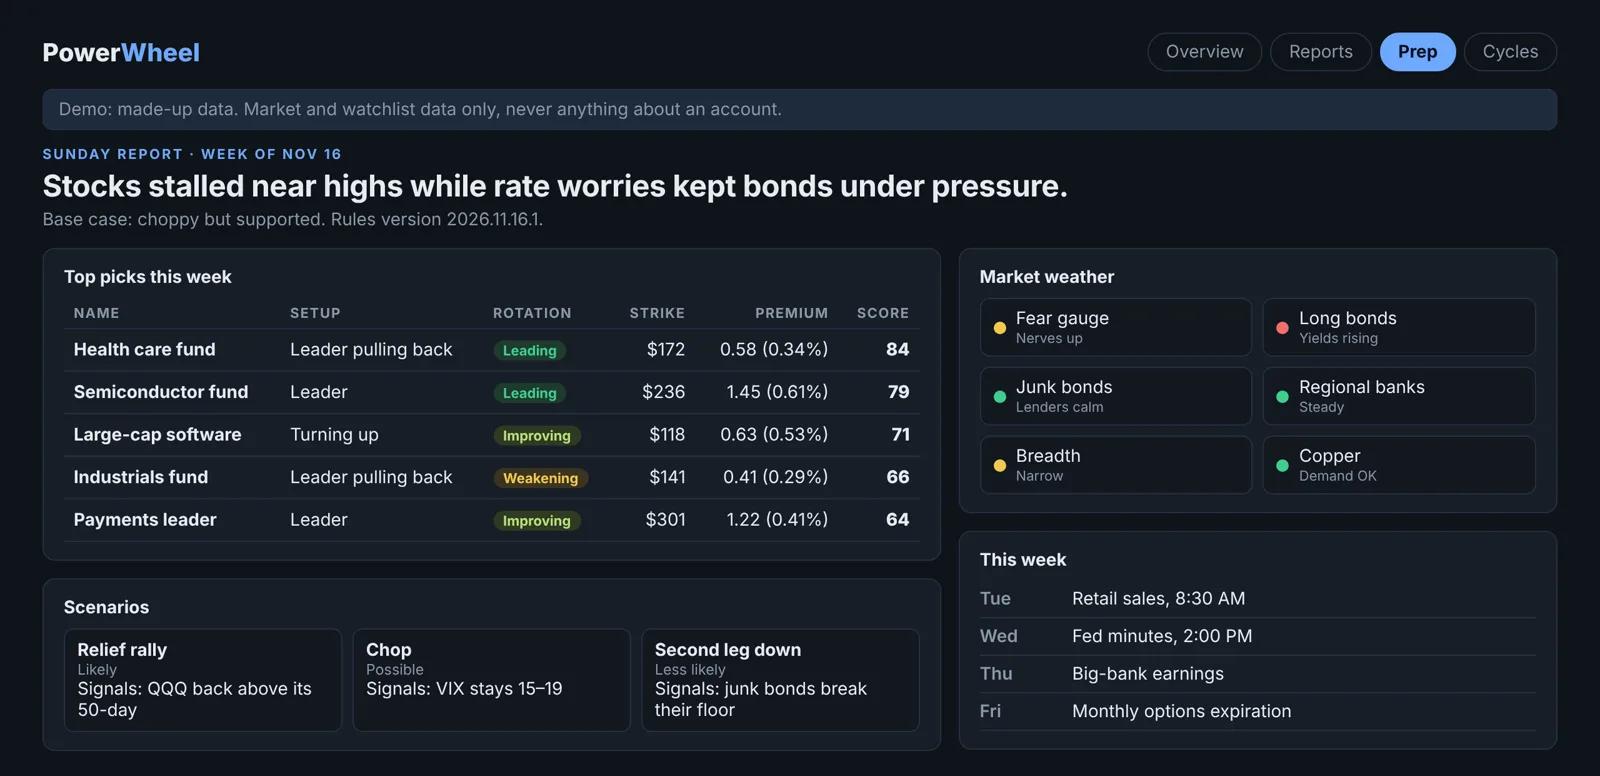
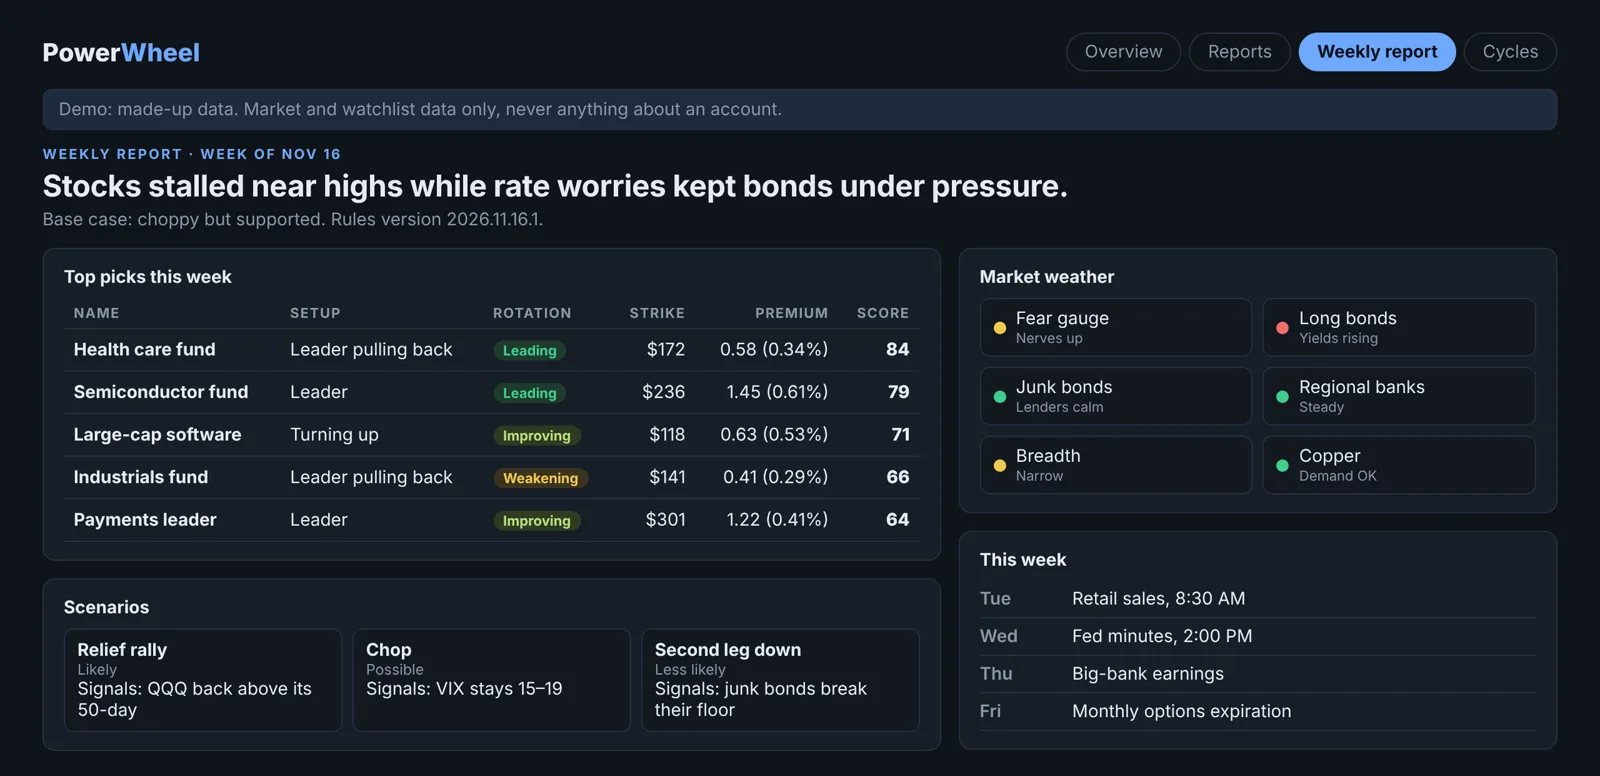
PowerWheel: reword AI highlight as ongoing market intelligence with a rule-improvement loop
Claude-Session: https://claude.ai/code/session_01NLkpSHayFEKEhYu5Viiwxy

Changed region(s): [[0.6875, 0.0309, 0.9062, 0.0928], [0.0312, 0.1856, 0.2188, 0.2165]]

diff --git a/site/index.html b/site/index.html
@@ -218,12 +218,12 @@ footer a{font-weight:600}
       <div class="stat"><b>Exact</b><span>contract counts matched</span></div>
     </div>
     <div class="hl">
-      <span class="hl-tag">New: AI weekly market prep</span>
-      <p>A scheduled Claude routine builds a Sunday market report and a Wednesday check: it researches the week's news and calendar and ranks a watchlist for put-selling by a written, versioned ruleset. The numbers come from code; the AI writes only the narrative.</p>
+      <span class="hl-tag">AI market intelligence</span>
+      <p>AI compiles weekly market reports with scored, suggested picks, all driven by one central ruleset that is versioned and refined as results come in. The numbers come from code; the AI writes the narrative.</p>
       <ul class="pts">
-        <li>Top 5 picks are logged against an SPY baseline and settled at expiry, so the suggestions get graded.</li>
-        <li>A paper "AI vs me" race trades the same rules. It never places a real order, and it can only propose rule changes. I decide.</li>
-        <li>Read-only broker access, and the public report never includes anything about an account.</li>
+        <li>Every pick is logged against an SPY baseline and graded at expiry, so the suggestions are measured, not just made.</li>
+        <li>A competing AI trader plays the same rules in a paper account against my real trades. Its results and reviews feed proposed rule changes back into the ruleset: a human-in-the-loop improvement cycle where I approve every change.</li>
+        <li>Paper only, read-only broker access, and the public report never includes anything about an account.</li>
       </ul>
     </div>
     <h3>What I did</h3>
@@ -244,7 +244,7 @@ footer a{font-weight:600}
     <div class="frame browser"><img src="assets/powerwheel-reports.webp" alt="Reports dashboard with weekly net premium and streams" loading="lazy"></div>
     <p class="cap">Weekly net premium, streams, and per-trade outcomes.</p>
     <div class="thumbs one">
-      <div><div class="frame"><img src="assets/powerwheel-prep.webp" alt="Sunday report with top picks, market weather and scenarios" loading="lazy"></div><p class="cap">The Sunday report: picks, market weather, scenarios and the week's calendar.</p></div>
+      <div><div class="frame"><img src="assets/powerwheel-prep.webp" alt="Weekly AI report with top picks, market weather and scenarios" loading="lazy"></div><p class="cap">Weekly AI report: scored picks, market weather, scenarios and the week's calendar.</p></div>
     </div>
     <p class="fine">Mock screens, made-up data.</p>
   </div>

diff --git a/mocks/powerwheel-prep.html b/mocks/powerwheel-prep.html
@@ -19,9 +19,9 @@ table{width:100%;border-collapse:collapse}th{text-align:left;color:var(--muted);
 .scn{display:grid;grid-template-columns:repeat(3,1fr);gap:8px}.scn div{background:#121820;border:1px solid var(--line);border-radius:8px;padding:8px 10px}.scn small{display:block;color:var(--muted)}
 .banner{background:#1d2a3d;border:1px solid var(--line);border-radius:8px;padding:7px 12px;color:var(--muted);margin-bottom:12px}
 </style></head><body>
-<div class="top"><div class="logo">Power<span>Wheel</span></div><div class="tabs"><span class="tab">Overview</span><span class="tab">Reports</span><span class="tab on">Prep</span><span class="tab">Cycles</span></div></div>
+<div class="top"><div class="logo">Power<span>Wheel</span></div><div class="tabs"><span class="tab">Overview</span><span class="tab">Reports</span><span class="tab on">Weekly report</span><span class="tab">Cycles</span></div></div>
 <div class="banner">Demo: made-up data. Market and watchlist data only, never anything about an account.</div>
-<div class="eyebrow">Sunday report · week of Nov 16</div>
+<div class="eyebrow">Weekly report · week of Nov 16</div>
 <h1>Stocks stalled near highs while rate worries kept bonds under pressure.</h1>
 <p class="sub">Base case: choppy but supported. Rules version 2026.11.16.1.</p>
 <div class="grid"><div>
